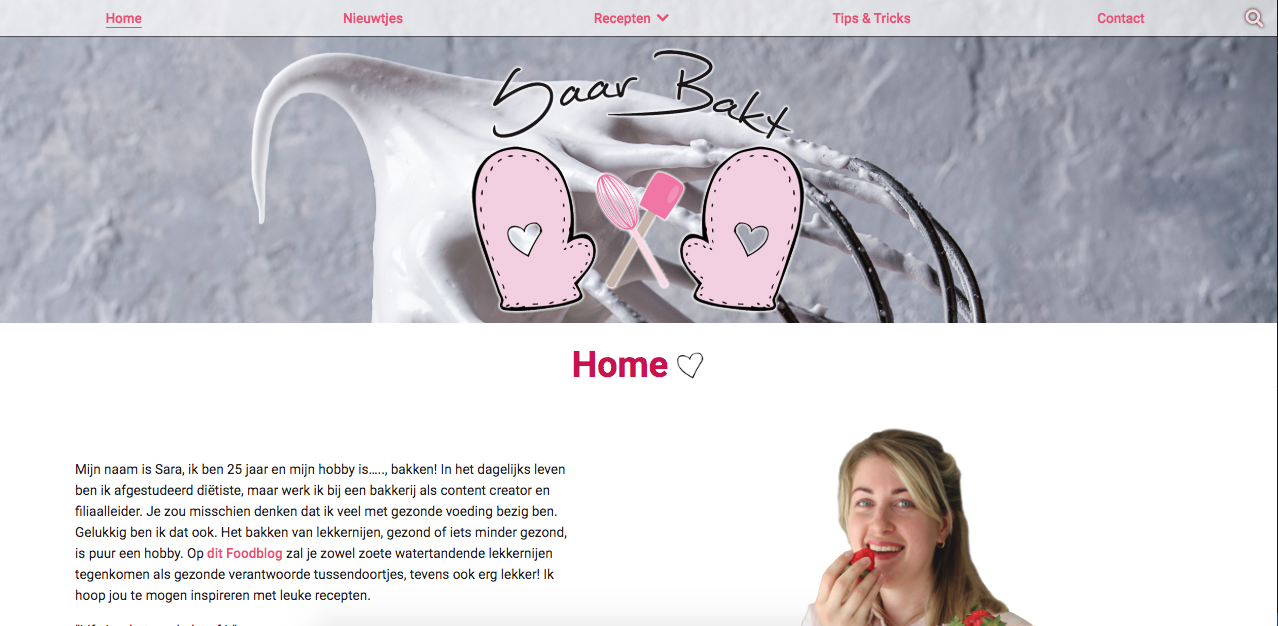
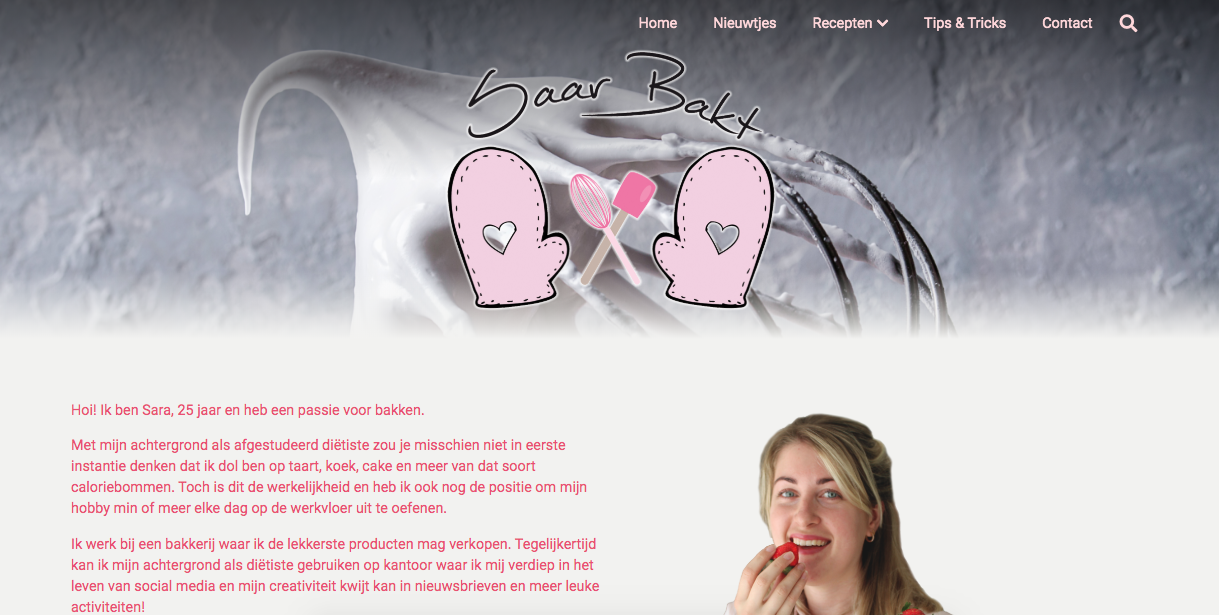
Updated saarbakt portfolio post.

diff --git a/store/frontend/portfolio.js b/store/frontend/portfolio.js
@@ -49,10 +49,11 @@ export const state = () => ({
 			name: 'Saarbakt',
 			id: new Date() * Math.random() + Math.random(),
 			website: 'https://www.saarbakt.nl',
-			content: `The very first website I made. This one was for my sister. She wanted a blog to post
-			all sorts of different recipes on. It is built using Wordpress and everything is compiled/transpiled using
-			Webpack. It has been while since it was built and I have learned a ridiculous amount since then. Most likely
-			I would setup the entire project much better.`,
+			content: `<p>This wordpress blog was the very first website I have made. It was created for my sister to post all sorts of recipes about
+			baking and cooking.</p>
+			
+			<p>Throughout the years I've rewritten it about 2 or 3 times and every single time I think to myself: "what was I doing?". The most recent rewrite includes a ridiculous amount of updates
+			under which: lazy loading images, a complete webpack configuration, better image scaling/optimalisation and SEO updates.</p>`,
 			background: require(`@/assets/images/portfolioimages/saarbakt.png`)
 		},
 		{
